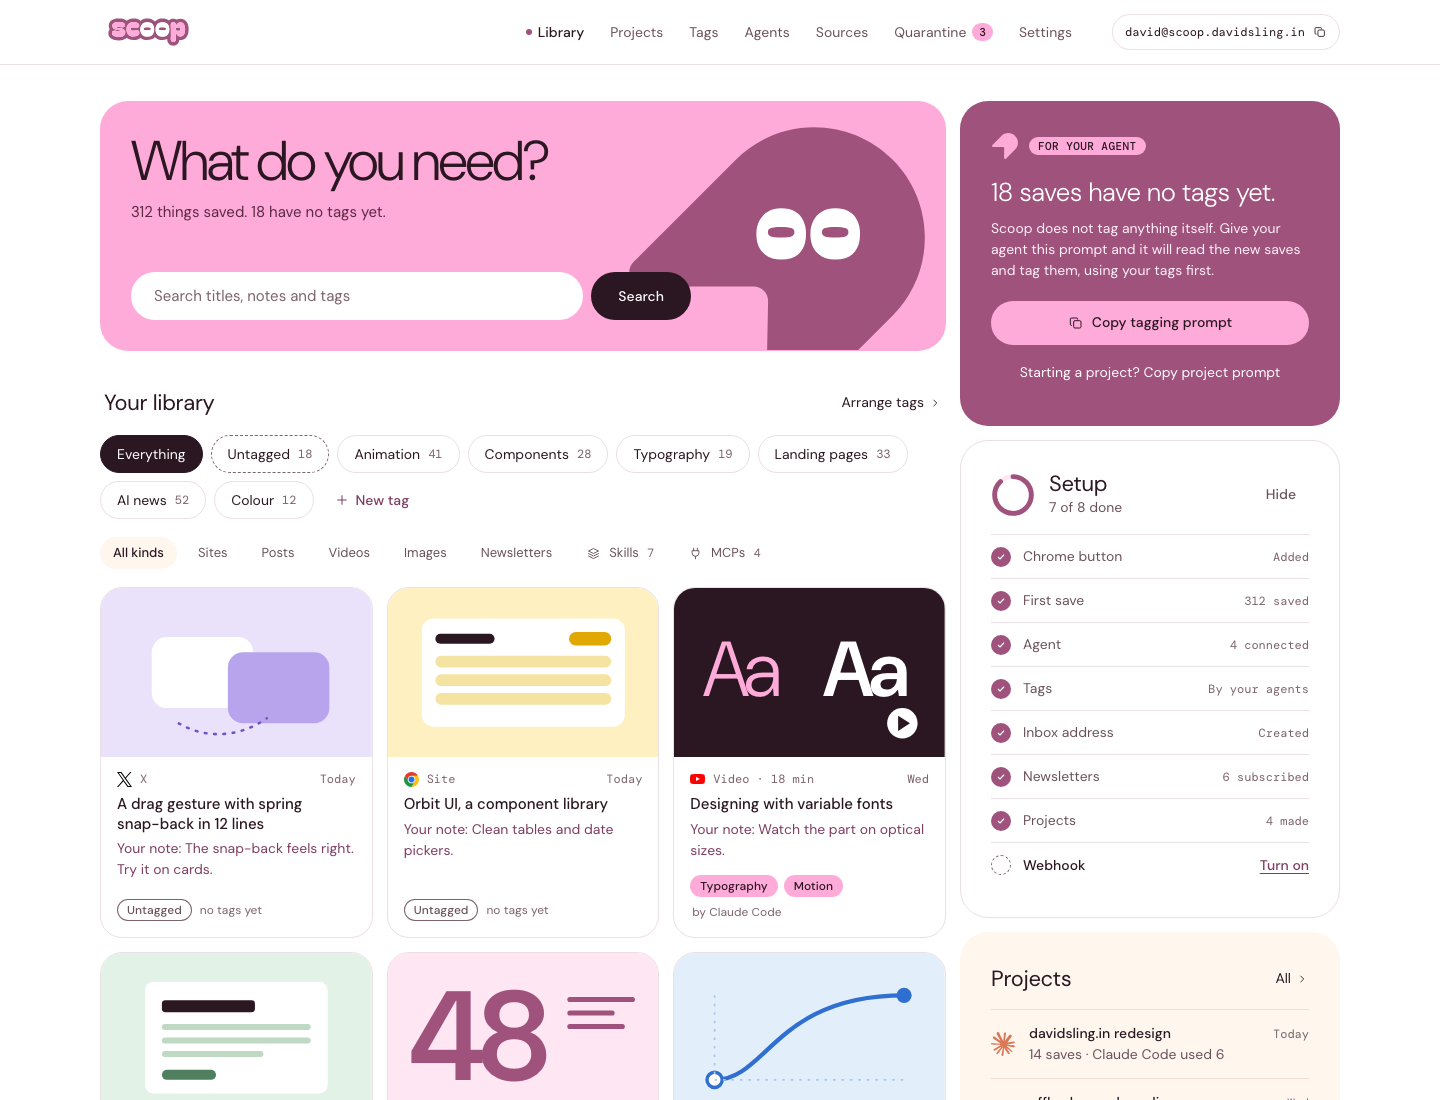
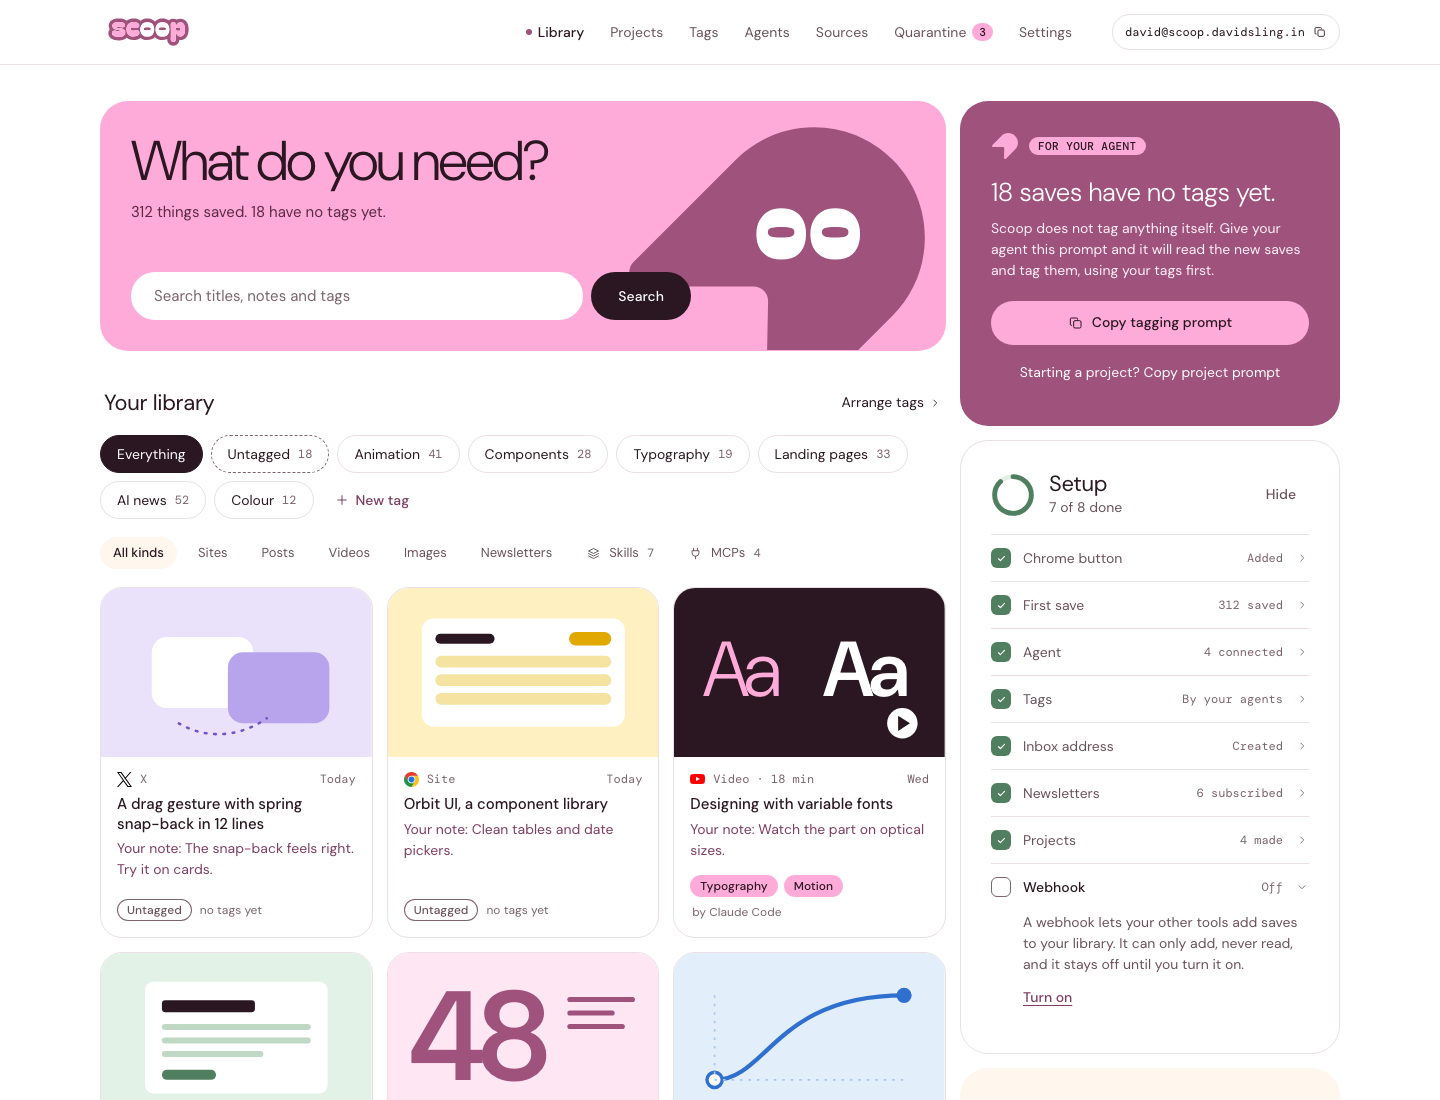
feat: make setup rows expandable, with green check boxes

diff --git a/mockups/dashboard.html b/mockups/dashboard.html
@@ -129,14 +129,14 @@
           <button class="btn text" type="button">Hide</button>
         </div>
         <ul class="su">
-          <li class="ok"><span class="tk"><svg class="i"><use href="#i-tick"/></svg></span><span>Chrome button</span><span class="t">Added</span></li>
-          <li class="ok"><span class="tk"><svg class="i"><use href="#i-tick"/></svg></span><span>First save</span><span class="t">312 saved</span></li>
-          <li class="ok"><span class="tk"><svg class="i"><use href="#i-tick"/></svg></span><span>Agent</span><span class="t">4 connected</span></li>
-          <li class="ok"><span class="tk"><svg class="i"><use href="#i-tick"/></svg></span><span>Tags</span><span class="t">By your agents</span></li>
-          <li class="ok"><span class="tk"><svg class="i"><use href="#i-tick"/></svg></span><span>Inbox address</span><span class="t">Created</span></li>
-          <li class="ok"><span class="tk"><svg class="i"><use href="#i-tick"/></svg></span><span>Newsletters</span><span class="t">6 subscribed</span></li>
-          <li class="ok"><span class="tk"><svg class="i"><use href="#i-tick"/></svg></span><span>Projects</span><span class="t">4 made</span></li>
-          <li class="todo"><span class="tk"></span><span>Webhook</span><a href="sources.html">Turn on</a></li>
+          <li class="ok"><details><summary><span class="tk"><svg class="i"><use href="#i-tick"/></svg></span><span>Chrome button</span><span class="t">Added</span><svg class="i chev"><use href="#i-chev"/></svg></summary><div class="more"><p>The Scoop button is in your browser. It reads a page only when you click it, and it can add to your library but never read it.</p><a href="sources.html">Open Sources</a></div></details></li>
+          <li class="ok"><details><summary><span class="tk"><svg class="i"><use href="#i-tick"/></svg></span><span>First save</span><span class="t">312 saved</span><svg class="i chev"><use href="#i-chev"/></svg></summary><div class="more"><p>You have saved 312 things. The latest was today, from X.</p></div></details></li>
+          <li class="ok"><details><summary><span class="tk"><svg class="i"><use href="#i-tick"/></svg></span><span>Agent</span><span class="t">4 connected</span><svg class="i chev"><use href="#i-chev"/></svg></summary><div class="more"><p>Claude Code, Codex, Cursor and Gemini CLI can search, read and organise your library. Each has its own access.</p><a href="agents.html">Manage agents</a></div></details></li>
+          <li class="ok"><details><summary><span class="tk"><svg class="i"><use href="#i-tick"/></svg></span><span>Tags</span><span class="t">By your agents</span><svg class="i chev"><use href="#i-chev"/></svg></summary><div class="more"><p>294 of your 312 saves have tags. The other 18 are waiting for an agent or for you.</p><a href="tags.html">Arrange tags</a></div></details></li>
+          <li class="ok"><details><summary><span class="tk"><svg class="i"><use href="#i-tick"/></svg></span><span>Inbox address</span><span class="t">Created</span><svg class="i chev"><use href="#i-chev"/></svg></summary><div class="more"><p><span class="mono">david@scoop.davidsling.in</span><br>Anything sent here from a sender you allow lands in your library.</p><a href="sources.html">Open Sources</a></div></details></li>
+          <li class="ok"><details><summary><span class="tk"><svg class="i"><use href="#i-tick"/></svg></span><span>Newsletters</span><span class="t">6 subscribed</span><svg class="i chev"><use href="#i-chev"/></svg></summary><div class="more"><p>Six newsletters send to your inbox address. 5 issues arrived this week.</p><a href="sources.html">See newsletters</a></div></details></li>
+          <li class="ok"><details><summary><span class="tk"><svg class="i"><use href="#i-tick"/></svg></span><span>Projects</span><span class="t">4 made</span><svg class="i chev"><use href="#i-chev"/></svg></summary><div class="more"><p>Your agents have used saves in 4 projects. The latest is davidsling.in redesign.</p><a href="projects.html">All projects</a></div></details></li>
+          <li class="todo"><details open><summary><span class="tk"></span><span>Webhook</span><span class="t">Off</span><svg class="i chev"><use href="#i-chev"/></svg></summary><div class="more"><p>A webhook lets your other tools add saves to your library. It can only add, never read, and it stays off until you turn it on.</p><a href="sources.html">Turn on</a></div></details></li>
         </ul>
       </section>
 

diff --git a/mockups/app.css b/mockups/app.css
@@ -273,16 +273,27 @@ h2 { margin: 0; font-size: 22px; line-height: 1.2; font-weight: 400; letter-spac
 /* Setup progress on the library home */
 .su-hd { display: flex; align-items: center; gap: 14px; }
 .su-hd .ring { width: 44px; height: 44px; flex: none; }
-.su-hd .ring circle { fill: none; stroke: var(--pink-wash); stroke-width: 4; }
-.su-hd .ring .on { stroke: var(--mauve); stroke-linecap: round; }
+.su-hd .ring circle { fill: none; stroke: #E3EEE6; stroke-width: 4; }
+.su-hd .ring .on { stroke: var(--ok); stroke-linecap: round; }
 .su-hd p { margin: 0; color: var(--ink-2); }
 .su-hd .btn { margin-left: auto; }
 .su { list-style: none; margin: 16px 0 0; padding: 0; }
-.su li { display: flex; align-items: center; gap: 12px; min-height: 44px; border-top: 1px solid var(--rule); color: var(--ink-2); }
-.su .tk { display: grid; place-items: center; width: 20px; height: 20px; border-radius: 50%; background: var(--mauve); color: #fff; flex: none; }
-.su .tk svg.i { width: 12px; height: 12px; }
+.su li { border-top: 1px solid var(--rule); }
+.su summary { display: flex; align-items: center; gap: 12px; min-height: 46px; margin: 0 -10px; padding: 0 10px; border-radius: 12px; cursor: pointer; list-style: none; color: var(--ink-2); transition: background-color 120ms var(--ease), color 120ms var(--ease); }
+.su summary::-webkit-details-marker { display: none; }
+.su summary:hover { background: var(--cream); color: var(--ink); }
+.su summary:active { background: #F6E9DC; }
+.su .tk { display: grid; place-items: center; width: 20px; height: 20px; border-radius: 6px; background: var(--ok); color: #fff; flex: none; }
+.su .tk svg.i { width: 13px; height: 13px; }
 .su .t { margin-left: auto; font: 400 12px var(--mono); color: var(--ink-3); }
-.su .todo { color: var(--ink); font-weight: 500; }
-.su .todo .tk { background: none; border: 1.5px dashed var(--ink-3); }
-.su .todo a { margin-left: auto; display: inline-flex; align-items: center; min-height: 44px; font-weight: 500; color: var(--mauve-deep); text-decoration: underline; text-underline-offset: 3px; }
-.su .todo a:hover { color: var(--ink); }
+.su .chev { width: 14px; height: 14px; color: var(--ink-3); transition: transform 200ms var(--ease); }
+.su details[open] .chev { transform: rotate(90deg); }
+.su details[open] summary { color: var(--ink); font-weight: 500; }
+.su .todo summary { color: var(--ink); font-weight: 500; }
+.su .todo .tk { background: none; border: 1.5px solid var(--ink-3); }
+.su .more { padding: 2px 0 14px 32px; }
+.su .more p { margin: 0; color: var(--ink-2); }
+.su .more .mono { font: 500 13px var(--mono); color: var(--ink); }
+.su .more a { display: inline-flex; align-items: center; min-height: 44px; margin-bottom: -10px; font-weight: 500; color: var(--mauve-deep); text-decoration: underline; text-underline-offset: 3px; }
+.su .more a:hover { color: var(--ink); }
+@media (prefers-reduced-motion: reduce) { .su .chev { transition: none; } }
